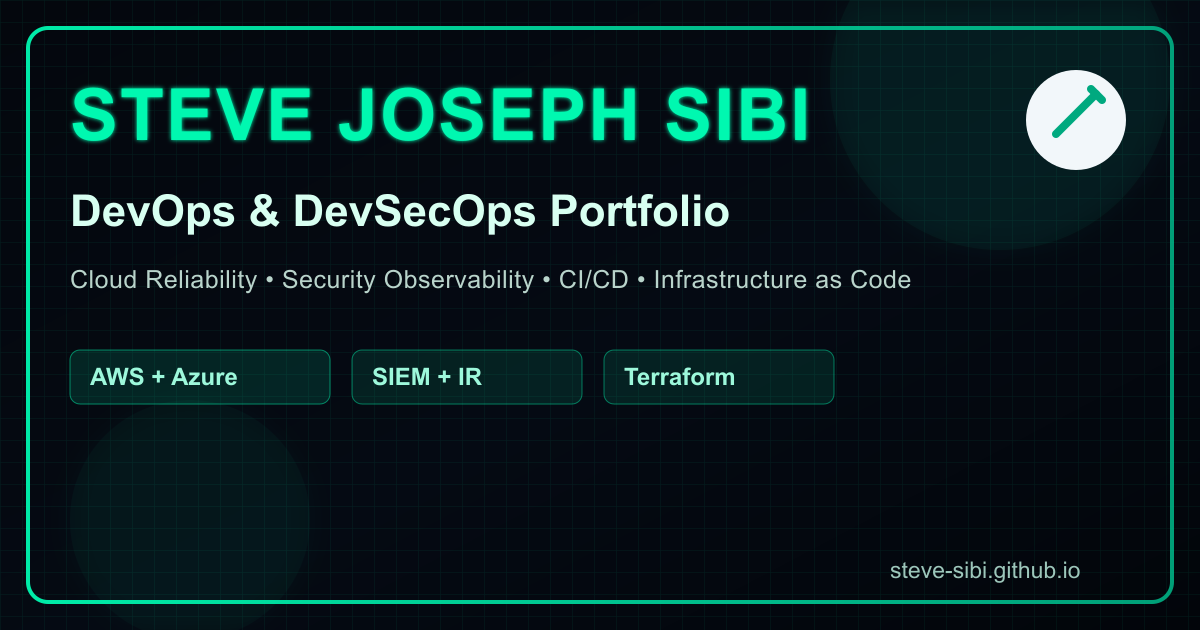
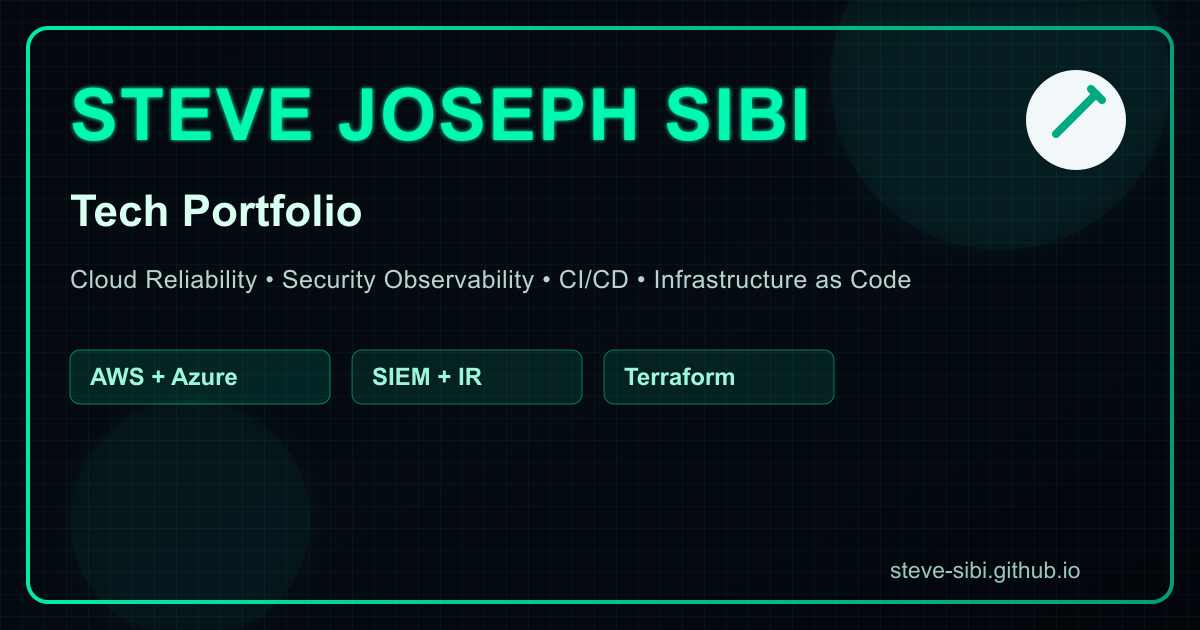
fix: update portfolio description and Open Graph image metadata for clarity and accuracy

Changed region(s): [[0.0617, 0.3016, 0.6167, 0.3619]]

diff --git a/index.html b/index.html
@@ -53,11 +53,11 @@
   <meta property="og:title" content="Steve Joseph Sibi - DevOps & DevSecOps Portfolio" />
   <meta property="og:description"
     content="DevOps and DevSecOps portfolio of Steve Joseph Sibi: cloud platforms, CI/CD, IaC, security observability, and incident response across AWS and Azure." />
-  <meta property="og:image" content="https://steve-sibi.github.io/images/og-card-devops-20260210.png?v=1" />
-  <meta property="og:image:secure_url" content="https://steve-sibi.github.io/images/og-card-devops-20260210.png?v=1" />
+  <meta property="og:image" content="https://steve-sibi.github.io/images/og-card-devops-20260210.png?v=2" />
+  <meta property="og:image:secure_url" content="https://steve-sibi.github.io/images/og-card-devops-20260210.png?v=2" />
   <meta property="og:image:width" content="1200" />
   <meta property="og:image:height" content="630" />
-  <meta property="og:image:alt" content="Preview of Steve Sibi’s DevOps and DevSecOps portfolio and projects" />
+  <meta property="og:image:alt" content="Preview of Steve Sibi’s tech portfolio and projects" />
 
   <!-- Theme color for address bar -->
   <meta name="theme-color" content="#ffffff" media="(prefers-color-scheme: light)">

diff --git a/README.md b/README.md
@@ -4,7 +4,7 @@
 [![CI](https://github.com/steve-sibi/steve-sibi.github.io/actions/workflows/ci.yml/badge.svg?branch=main)](https://github.com/steve-sibi/steve-sibi.github.io/actions/workflows/ci.yml)
 [![License: ISC](https://img.shields.io/badge/License-ISC-0f67a7.svg)](LICENSE)
 
-> A modern, data-driven DevOps and DevSecOps portfolio built with vanilla JavaScript modules, Tailwind CSS 4, and deployed on GitHub Pages.
+> My take on designing a Tech portfolio built with vanilla JavaScript modules, Tailwind CSS 4, and deployed on GitHub Pages. I'll continue to modify this website as my experience grows (and welcome design feedbacks as well)!
 
 ![Portfolio Preview](images/og-card.png)
 
